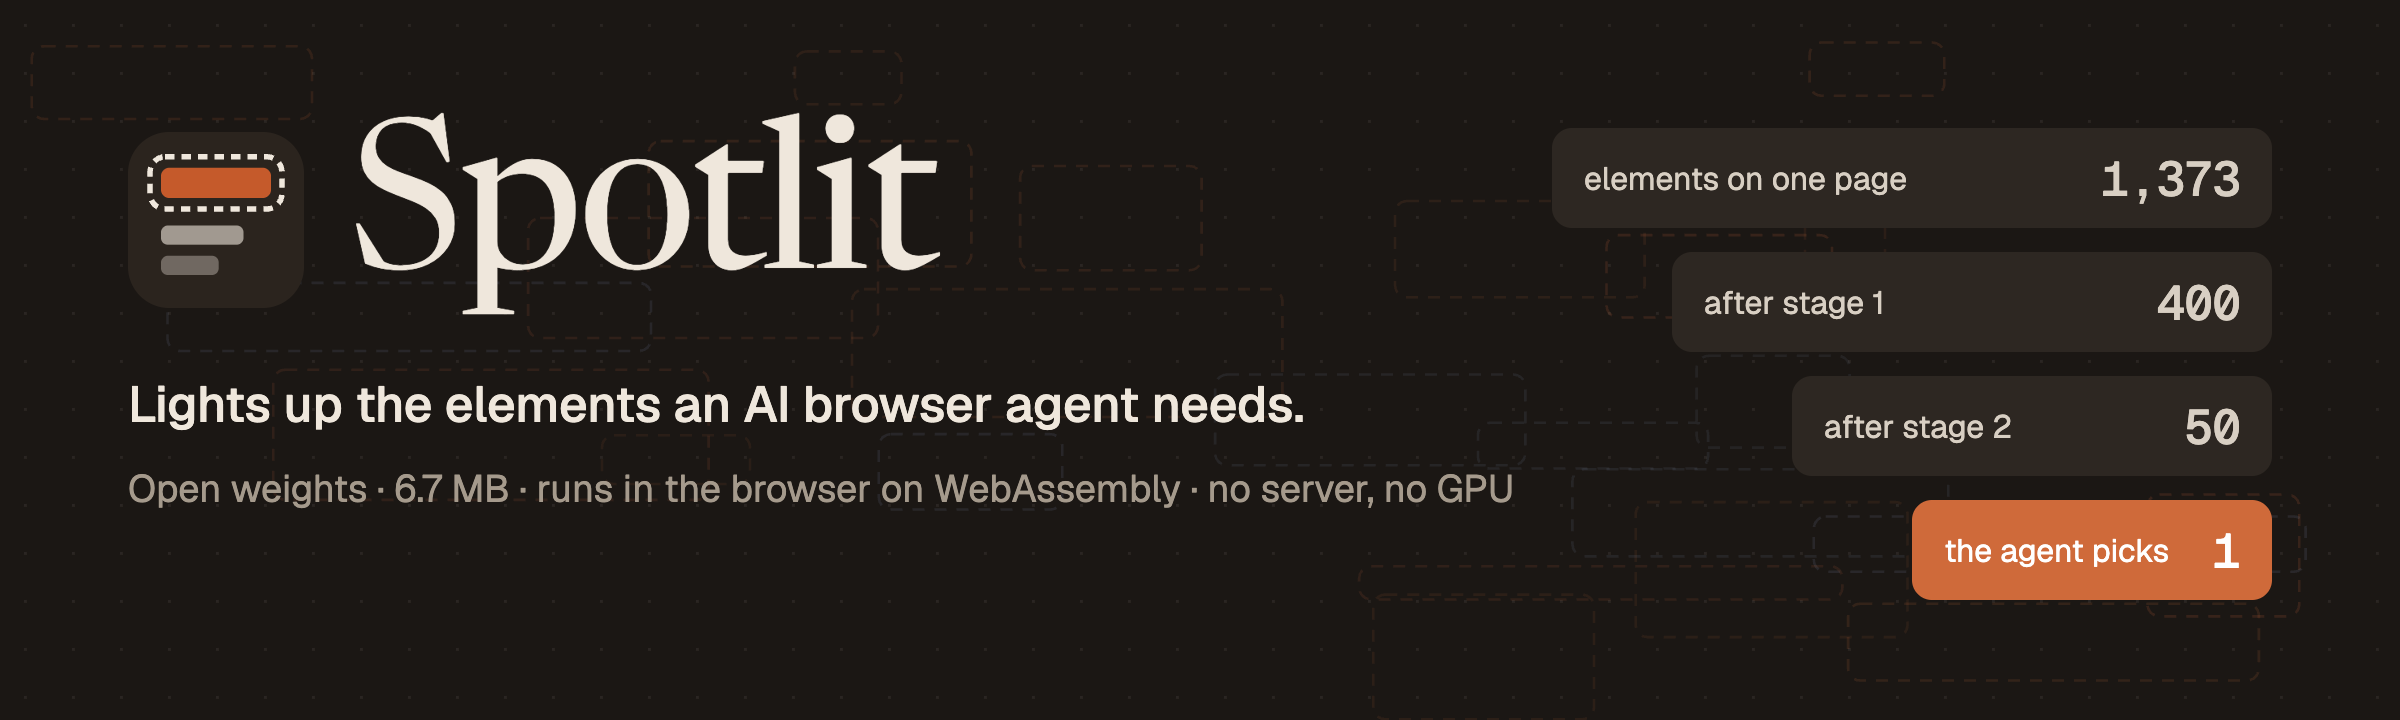
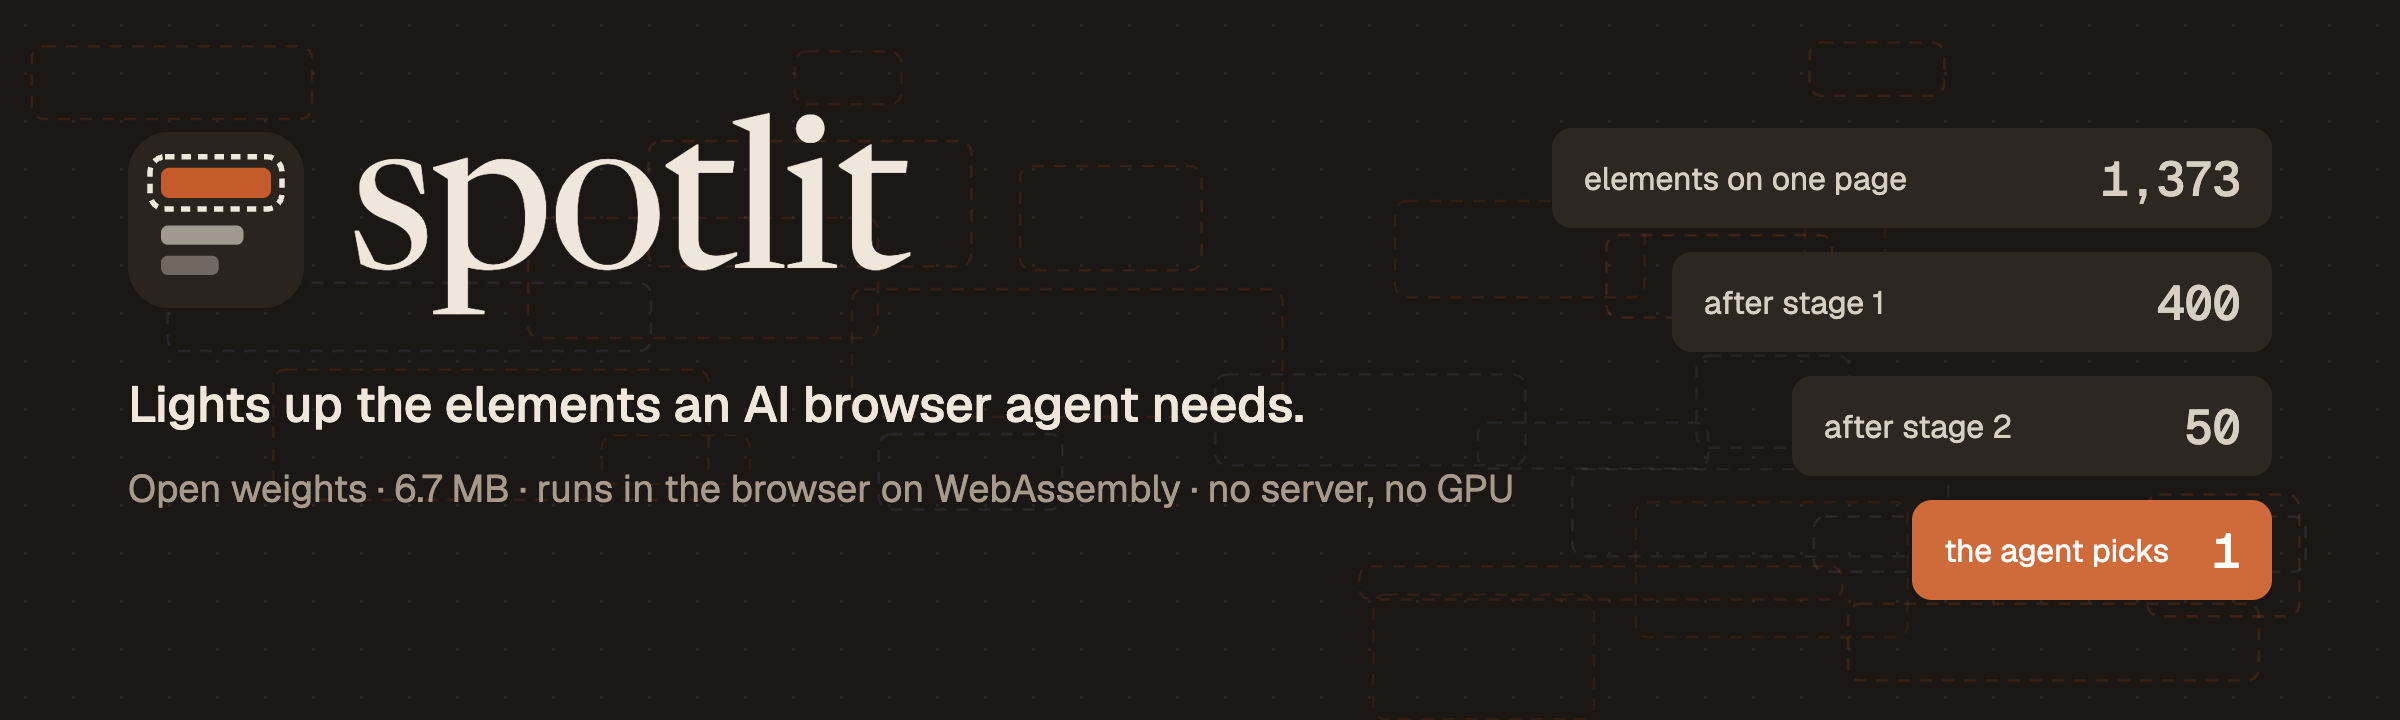
refactor: write the name in lower case, spotlit
The project name is spotlit, in lower case, everywhere: README,
model card, NOTICE, benchmarks, web README, bench page, logo label
and the banner wordmark.

The browser API follows the name: import the module as a namespace and
call spotlit.load(ort, files), which returns a Ranker; collectCandidates
and queryOf are unchanged. The class is no longer the brand:

  import * as spotlit from "./web/src/spotlit.js";
  const ranker = await spotlit.load(ort, files);
  const top50 = await ranker.rank(goal, spotlit.collectCandidates(document));

Checked: the Viator dev step still ranks Coffee & Tea #10 through
spotlit.load; encoder goldens 31/31. Weights unchanged.

Changed region(s): [[0.125, 0.1528, 0.4062, 0.4583]]

diff --git a/web/src/spotlit.js b/web/src/spotlit.js
@@ -1,4 +1,4 @@
-// Spotlit, an element ranker for browser agents: tinylab stage 1 plus a BERT-tiny re-ranker (ADR-0012 to 0014).
+// spotlit, an element ranker for browser agents: tinylab stage 1 plus a BERT-tiny re-ranker (ADR-0012 to 0014).
 
 import { Student, cosine } from "./tinylab.js";
 import { WordPiece } from "./wordpiece.js";
@@ -51,22 +51,22 @@ export function collectCandidates(root = document, limit = 2000) {
   return out;
 }
 
-export class Spotlit {
+/**
+ * `ort` is ONNX Runtime Web. `stage1` and `reranker` are URLs or ArrayBuffers; `vocab` is a URL, or pass
+ * `vocabText`. INT8 re-rankers must run on the "wasm" provider: WebGPU scores them wrongly (ORT Web 1.30).
+ */
+export async function load(ort, { stage1, reranker, vocab, vocabText }, executionProviders = ["wasm"]) {
+  const bytes = async (source) => (source instanceof ArrayBuffer ? source : (await fetch(source)).arrayBuffer());
+  const student = Student.fromBuffer(await bytes(stage1));
+  const model = new Uint8Array(await bytes(reranker));
+  const session = await ort.InferenceSession.create(model, { executionProviders, graphOptimizationLevel: "all" });
+  const vocabulary = vocabText ?? (await (await fetch(vocab)).text());
+  return new Ranker(ort, student, session, new WordPiece(vocabulary));
+}
+
+export class Ranker {
   constructor(ort, stage1, session, tokenizer) {
     Object.assign(this, { ort, stage1, session, tokenizer });
-  }
-
-  /**
-   * `ort` is ONNX Runtime Web. `stage1` and `reranker` are URLs or ArrayBuffers; `vocab` is a URL, or pass
-   * `vocabText`. INT8 re-rankers must run on the "wasm" provider: WebGPU scores them wrongly (ORT Web 1.30).
-   */
-  static async load(ort, { stage1, reranker, vocab, vocabText }, executionProviders = ["wasm"]) {
-    const bytes = async (source) => (source instanceof ArrayBuffer ? source : (await fetch(source)).arrayBuffer());
-    const student = Student.fromBuffer(await bytes(stage1));
-    const model = new Uint8Array(await bytes(reranker));
-    const session = await ort.InferenceSession.create(model, { executionProviders, graphOptimizationLevel: "all" });
-    const vocabulary = vocabText ?? (await (await fetch(vocab)).text());
-    return new Spotlit(ort, student, session, new WordPiece(vocabulary));
   }
 
   /** Stage 1 order of every candidate, best first. */

diff --git a/web/bench-rerank.html b/web/bench-rerank.html
@@ -12,13 +12,13 @@
 </style>
 </head>
 <body>
-<h1>Spotlit re-rank bench</h1>
+<h1>spotlit re-rank bench</h1>
 <p class="muted">Stage 1 (2 MB, tinylab.js) ranks each page's elements, then a BERT re-ranker (ONNX Runtime Web) re-scores
 the top 400 (goal, element) pairs. Times are medians per page step on this browser. Needs a cross-origin isolated page for
 WebAssembly threads; <code>?ort=</code> sets where ONNX Runtime Web is served (default <code>/ortweb/</code>).</p>
 <pre id="out">running...</pre>
 <script type="module">
-import { Spotlit, queryOf } from "./src/spotlit.js";
+import { load, queryOf } from "./src/spotlit.js";
 
 const params = new URLSearchParams(location.search);
 const ORT_BASE = params.get("ort") ?? "/ortweb/";
@@ -39,7 +39,7 @@ const median = (xs) => { const s = [...xs].sort((a, b) => a - b); return s[Math.
 async function bench(ort, data, [name, dir, key], variant, ep) {
   let ranker;
   try {
-    ranker = await Spotlit.load(ort, { stage1: "/dist/tinylab-ranker-v1/student.tlab",
+    ranker = await load(ort, { stage1: "/dist/tinylab-ranker-v1/student.tlab",
       reranker: `${dir}/reranker.${variant}.onnx`, vocab: `${dir}/vocab.txt` }, [ep]);
   } catch (error) {
     log({ model: name, variant, ep, error: String(error).slice(0, 160) });

diff --git a/README.md b/README.md
@@ -1,11 +1,11 @@
 <picture>
   <source media="(prefers-color-scheme: dark)" srcset="docs/img/spotlit-banner-dark.png">
-  <img alt="Spotlit: lights up the elements an AI browser agent needs" src="docs/img/spotlit-banner-light.png">
+  <img alt="spotlit: lights up the elements an AI browser agent needs" src="docs/img/spotlit-banner-light.png">
 </picture>
 
-# Spotlit
+# spotlit
 
-Spotlit is an open-weight model that ranks a web page's elements against an AI browser
+spotlit is an open-weight model that ranks a web page's elements against an AI browser
 agent's goal, so the agent sends its large model the 50 elements that matter instead of the
 whole page. It is 6.7 MB, runs in the browser on WebAssembly with no server and no GPU, and
 takes about a quarter of a second per page step on eight threads. On Mind2Web's three held-out
@@ -17,12 +17,12 @@ against about 44% for keyword search, while the agent reads 32-43x fewer tokens.
 | :--- | :--- | ---: | ---: | :--- | :--- |
 | **Stage 1** | `stage1.tlab` | 1.99 MB | 1.97M | Text as bytes, up to 512 | Hashed byte n-gram table (6,144 x 320, INT8), no tokenizer. Scores every element |
 | **Stage 2** | `reranker.int8.onnx`, `vocab.txt` | 4.72 MB | 4.39M | Goal + element, 128 WordPiece tokens | BERT-tiny cross-encoder (INT8 ONNX). Re-scores stage 1's top 400 |
-| **Spotlit v1** | all three | 6.71 MB | 6.4M | A goal and a page | Both stages; returns the top 50 |
+| **spotlit v1** | all three | 6.71 MB | 6.4M | A goal and a page | Both stages; returns the top 50 |
 
 This repository holds the code that builds the training data from Mind2Web, trains both
 stages, exports them to INT8, evaluates them, and runs them in the browser (JavaScript) and in
 C++. To use the model, see the [model card](models/spotlit-v1/README.md) or download
-the [v1.0.0 release](../../releases/tag/spotlit-v1.0.0). Spotlit is built with tinylab, the
+the [v1.0.0 release](../../releases/tag/spotlit-v1.0.0). spotlit is built with tinylab, the
 training toolkit in `python/tinylab`; the Python package and command-line tools keep that name.
 
 ## How it works
@@ -64,7 +64,7 @@ whose clicked element is in the top 50.
 | :--- | ---: | ---: | ---: | ---: |
 | Keyword search (BM25) | 0 | 44.2% | 43.8% | 44.5% |
 | Stage 1 alone | 2.0 MB | 69.2% | 56.7% | 57.7% |
-| **Spotlit v1** | **6.7 MB** | **80.8%** | **75.8%** | **75.9%** |
+| **spotlit v1** | **6.7 MB** | **80.8%** | **75.8%** | **75.9%** |
 | MindAct DeBERTa-v3-base, as reported in the Mind2Web paper | 184M params | 88.9% | 85.3% | 85.7% |
 
 | Measure | Cross-task | Cross-website | Cross-domain |
@@ -128,21 +128,21 @@ Every variant tried, the dev results and the runtime checks are in
 
 ```js
 import * as ort from "onnxruntime-web";
-import { Spotlit, collectCandidates } from "./web/src/spotlit.js";
+import * as spotlit from "./web/src/spotlit.js";
 
-const ranker = await Spotlit.load(ort, {
+const ranker = await spotlit.load(ort, {
   stage1: "models/spotlit-v1/stage1.tlab",
   reranker: "models/spotlit-v1/reranker.int8.onnx",
   vocab: "models/spotlit-v1/vocab.txt",
 });
-const top50 = await ranker.rank("Find a store in Los Angeles", collectCandidates(document));
+const top50 = await ranker.rank("Find a store in Los Angeles", spotlit.collectCandidates(document));
 ```
 
-`rank(goal, candidates, { k, depth, history })` takes `{ id, text }` candidates and returns
-the best `k` (default 50) with their scores and stage 1 ranks; `history` is the agent's
-previous actions. Run it on the `wasm` execution provider. Stage 1 and the WordPiece
-tokenizer are dependency-free JavaScript in [`web/src/`](web/README.md); stage 1 also has a
-C++ runtime in [`cpp/`](cpp/).
+`spotlit.load` returns a ranker. Its `rank(goal, candidates, { k, depth, history })` takes
+`{ id, text }` candidates and returns the best `k` (default 50) with their scores and stage 1
+ranks; `history` is the agent's previous actions. Run it on the `wasm` execution provider.
+Stage 1 and the WordPiece tokenizer are dependency-free JavaScript in
+[`web/src/`](web/README.md); stage 1 also has a C++ runtime in [`cpp/`](cpp/).
 
 ## Setup
 
@@ -245,7 +245,7 @@ cmake -S cpp -B cpp/build && cmake --build cpp/build && ctest --test-dir cpp/bui
 `Cross-Origin-Opener-Policy: same-origin` and `Cross-Origin-Embedder-Policy: require-corp`
 headers to get threads.
 
-## Before Spotlit
+## Before spotlit
 
 This project started as tinylab: a 2 MB, tokenizer-free text embedder to add to keyword search.
 It adds +0.024 nDCG@10 to BM25 on technical prose but falls below BM25 on design documents, and
@@ -260,7 +260,7 @@ closed the gap. Its table became stage 1's starting point. The record is in
 ├── web/                        browser runtime: src/ (spotlit.js, tinylab.js, wordpiece.js), tests, bench pages
 ├── cpp/                        C++ runtime for the .tlab format, parity tests
 ├── python/tinylab/
-│   ├── agent/                  Spotlit: Mind2Web data, both stages, export, evaluation
+│   ├── agent/                  spotlit: Mind2Web data, both stages, export, evaluation
 │   ├── train/                  the starting table: closed-form fit, distillation
 │   ├── export/                 .tlab writer (INT8, budget-checked)
 │   ├── eval/                   retrieval evaluation harness, standard library only

diff --git a/web/README.md b/web/README.md
@@ -26,7 +26,7 @@ python3 -m http.server 8765 --bind 127.0.0.1   # then open /web/bench.html
 against the exporter's `goldens.json`. `bench.html` repeats both in a browser and times
 embedding on the main thread.
 
-## Spotlit (ADR-0012 to 0014)
+## spotlit (ADR-0012 to 0014)
 
 Two stages for browser agents: stage 1 is the same `.tlab` runtime on a table trained on
 Mind2Web; stage 2 re-scores stage 1's top 400 elements with a BERT-tiny cross-encoder through
@@ -47,14 +47,14 @@ node web/test/wordpiece-parity.mjs dist/reranker-bert_uncased_L-2_H-128_A-2-v1
 
 ```js
 import * as ort from "onnxruntime-web";
-import { Spotlit, collectCandidates } from "./src/spotlit.js";
+import * as spotlit from "./src/spotlit.js";
 
-const ranker = await Spotlit.load(ort, {
+const ranker = await spotlit.load(ort, {
   stage1: "models/spotlit-v1/stage1.tlab",
   reranker: "models/spotlit-v1/reranker.int8.onnx",
   vocab: "models/spotlit-v1/vocab.txt",
 });
-const top = await ranker.rank("book a table for two tonight", collectCandidates(document), { k: 50 });
+const top = await ranker.rank("book a table for two tonight", spotlit.collectCandidates(document), { k: 50 });
 ```
 
 `collectCandidates` describes live elements the way the training data does (tag, key

diff --git a/models/spotlit-v1/README.md b/models/spotlit-v1/README.md
@@ -1,4 +1,4 @@
-# Spotlit v1
+# spotlit v1
 
 A 6.7 MB open-weight model that ranks a web page's elements against an AI agent's goal, in
 the browser. An agent sends only the top 50 elements to its large model instead of the whole
@@ -31,14 +31,14 @@ The goal is the task plus up to three previous actions: `goal + " Previous actio
 
 ```js
 import * as ort from "onnxruntime-web";
-import { Spotlit, collectCandidates } from "./web/src/spotlit.js";
+import * as spotlit from "./web/src/spotlit.js";
 
-const ranker = await Spotlit.load(ort, {
+const ranker = await spotlit.load(ort, {
   stage1: "models/spotlit-v1/stage1.tlab",
   reranker: "models/spotlit-v1/reranker.int8.onnx",
   vocab: "models/spotlit-v1/vocab.txt",
 });
-const top50 = await ranker.rank("Find the retired players named James Smith", collectCandidates(document));
+const top50 = await ranker.rank("Find the retired players named James Smith", spotlit.collectCandidates(document));
 ```
 
 Run the INT8 re-ranker on ONNX Runtime Web's `wasm` provider. On the WebGPU provider of ORT

diff --git a/docs/benchmarks/search-student.md b/docs/benchmarks/search-student.md
@@ -2,7 +2,7 @@
 
 tinylab's first goal was a text embedding model under 2 MB, with no tokenizer, that adds to
 keyword search (BM25) in hybrid retrieval. This page records what it reached and what did
-not work. Its weights became the starting point of Spotlit's stage 1.
+not work. Its weights became the starting point of spotlit's stage 1.
 
 ## Setup
 

diff --git a/docs/benchmarks/spotlit.md b/docs/benchmarks/spotlit.md
@@ -1,4 +1,4 @@
-# Spotlit on Mind2Web
+# spotlit on Mind2Web
 
 What the released model (`models/spotlit-v1`) was trained and measured on, and every
 variant tried along the way.
